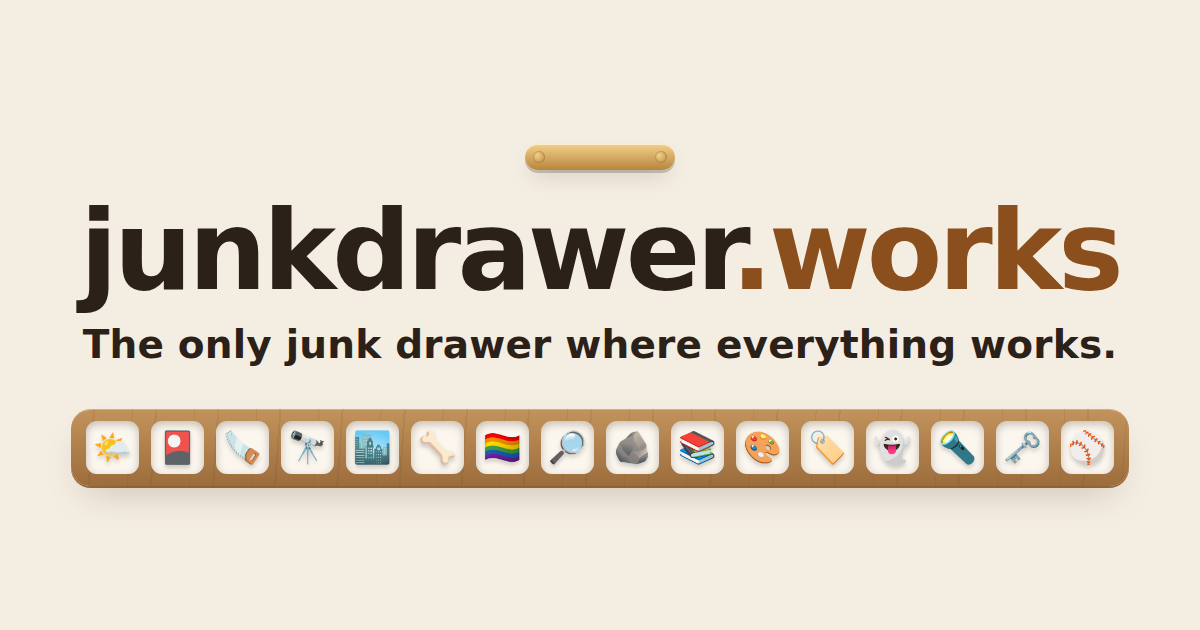
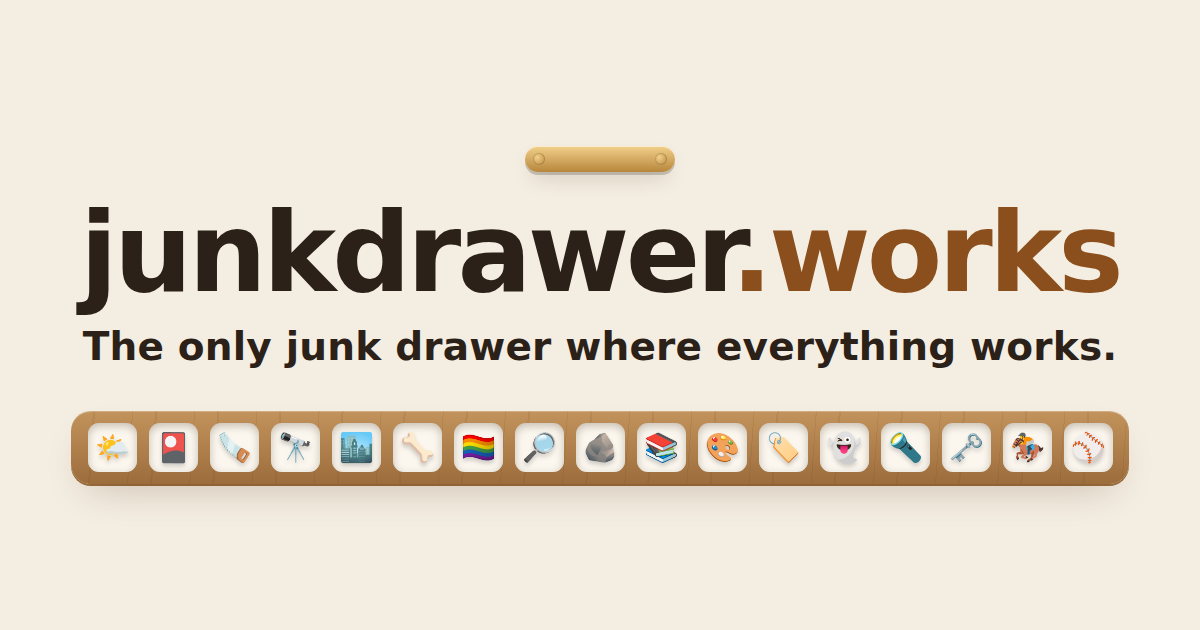
Add Bloodlines to the drawer
Claude-Session: https://claude.ai/code/session_01NrFXRzCa5zXpqhjpw2WhGU

diff --git a/index.html b/index.html
@@ -246,6 +246,13 @@
         <p>A mystery in the spirit of Myst. Look through a brass eyeglass into another world at any hour, open three locks with what you see after dark, and follow the woman who left them.</p>
         <span class="go" aria-hidden="true">Open →</span>
       </a>
+      <a class="slot" href="/bloodlines/">
+        <span class="obj" aria-hidden="true">🏇</span>
+        <span class="label">New</span>
+        <h2>Bloodlines</h2>
+        <p>The racehorse family tree. Follow any horse back, father to son, to one of three stallions from around 1700, or pick two and see how they’re related.</p>
+        <span class="go" aria-hidden="true">Open →</span>
+      </a>
       <div class="slot full soon">
         <span class="obj" aria-hidden="true">⚾</span>
         <div>
